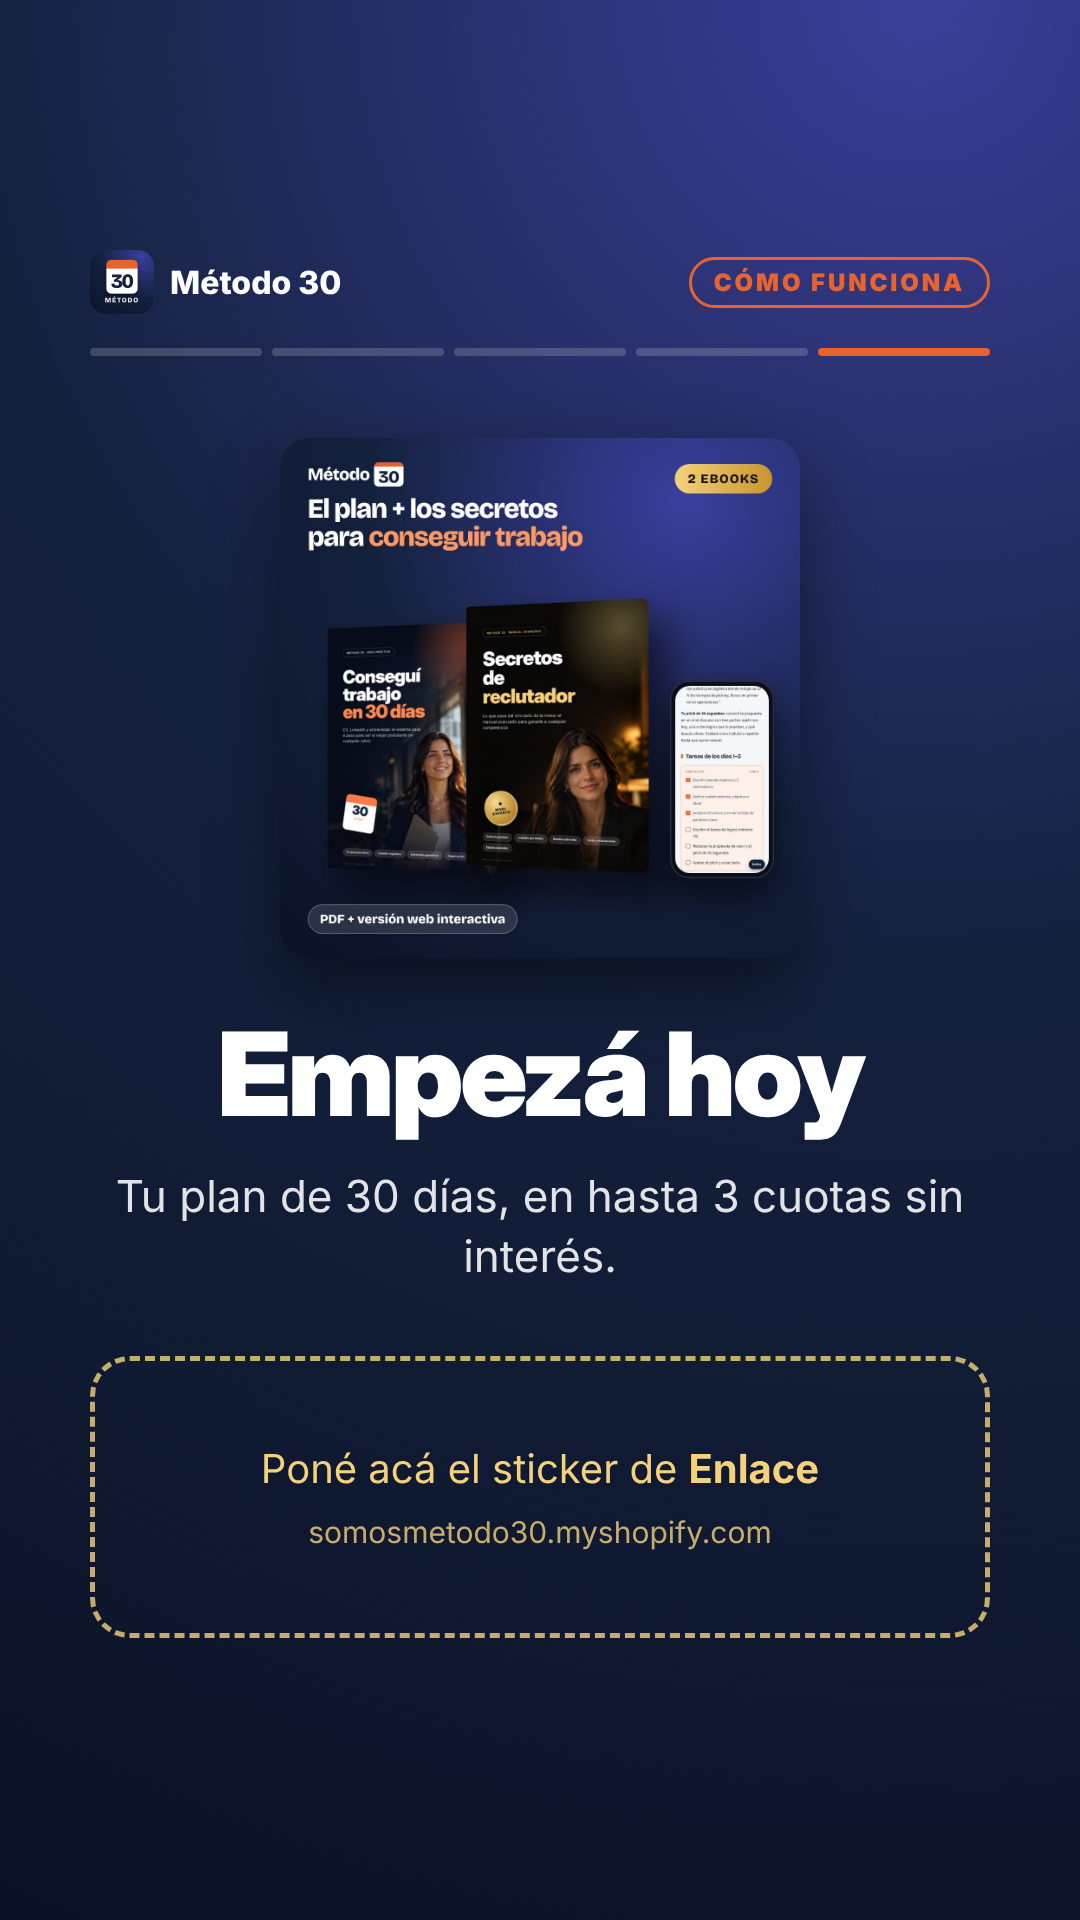
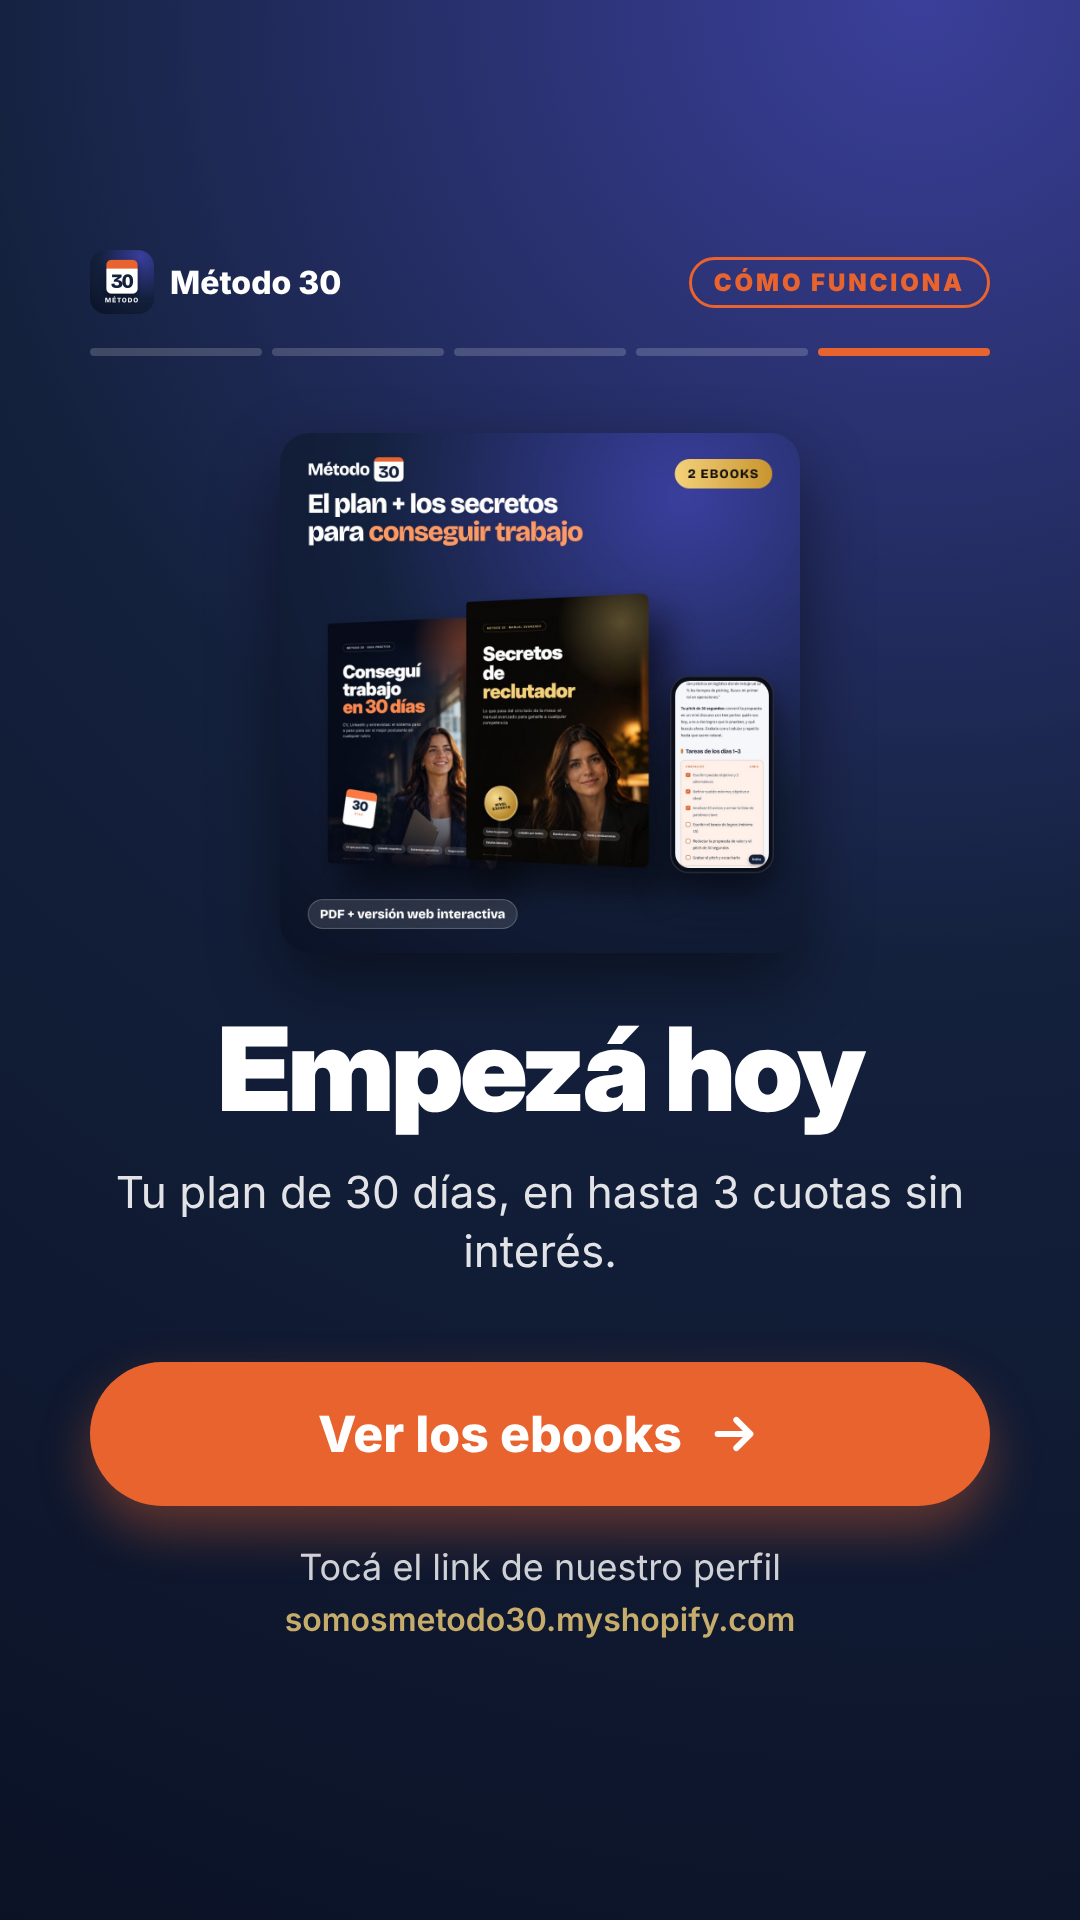
Instagram stories: replace sticker placeholders with finished buttons
Claude-Session: https://claude.ai/code/session_01DqVqUeAmWCQGLWKBngAQ89

diff --git a/instagram/build_historias.py b/instagram/build_historias.py
@@ -52,10 +52,11 @@ add(F, "5", "link", tag="Cómo funciona", title="Empezá hoy",
 F = "2-resenas"
 add(F, "1-pedi-resenas", "ask", tag="Reseñas", title="¿Ya leíste<br><em>Método 30</em>?",
     sub="Contanos cómo te fue con tu búsqueda. Con tu permiso, compartimos tu mensaje acá.",
-    box="Poné acá el sticker de <b>Preguntas</b>")
-add(F, "PLANTILLA-gracias", "thanks", tag="Reseñas", title="¡Gracias, ____!",
-    sub="Escribí el nombre (o la inicial) de quien te mandó el mensaje.",
-    box="Pegá acá la <b>captura real</b> del mensaje<br><small>Tapá foto y número si te lo piden</small>")
+    cta="Mandanos un mensaje", note="o escribinos a somosmetodo30@gmail.com")
+add(F, "2-como-contarnos", "list", tag="Reseñas", title="Contanos<br>tu experiencia",
+    items=["Aplicá el plan en tu búsqueda", "Mandanos un mensaje directo contando cómo te fue",
+           "Si querés, sumá una captura de tu CV o tu LinkedIn nuevo", "Con tu permiso, lo compartimos en esta destacada"],
+    foot="Tu historia puede ayudar a otra persona a animarse.")
 
 # ---------- 3. PAGOS ----------
 F = "3-pagos"
@@ -118,11 +119,20 @@ QA = [
 for i, (q, a) in enumerate(QA, 1):
     add(F, str(i), "qa", tag="Preguntas", q=q, a=a)
 add(F, str(len(QA) + 1), "ask", tag="Preguntas", title="¿Tenés otra<br>pregunta?",
-    sub="Dejala acá y te respondemos en una historia.",
-    box="Poné acá el sticker de <b>Preguntas</b>")
+    sub="Mandanos un mensaje y te respondemos en una historia.",
+    cta="Mandanos un mensaje", note="o escribinos a somosmetodo30@gmail.com")
 
 
 # ---------- RENDER ----------
+ARROW = '<svg viewBox="0 0 24 24"><path d="M5 12h14M13 6l6 6-6 6" fill="none" stroke="currentColor" stroke-width="2.6" stroke-linecap="round" stroke-linejoin="round"/></svg>'
+PLANE = '<svg viewBox="0 0 24 24"><path d="M21 3 10 14M21 3l-7 18-4-7-7-4 18-7Z" fill="none" stroke="currentColor" stroke-width="2.2" stroke-linejoin="round"/></svg>'
+
+
+def cta(label, note, small, icon=ARROW):
+    sm = f"<small>{small}</small>" if small else ""
+    return f'<div class="cta"><div class="btn"><span>{label}</span>{icon}</div><p>{note}{sm}</p></div>'
+
+
 def head(h, i, total):
     dots = "".join(f'<i class="{"on" if k == i else ""}"></i>' for k in range(total))
     return (f'<div class="top"><img src="{ICON}"><span>Método 30</span><b>{h["tag"]}</b></div>'
@@ -137,11 +147,11 @@ def body(h):
         return (f'<div class="step"><div class="num">{h["n"]}</div><h2>{h["title"]}</h2>'
                 f'<p>{h["text"]}</p><div class="pic">{h["pic"]}</div></div>')
     if k == "link":
-        return (f'<div class="cover center"><img class="tp" src="{COMBO}"><h1>{h["title"]}</h1><p class="sub">{h["sub"]}</p>'
-                f'<div class="box">Poné acá el sticker de <b>Enlace</b><small>{LINK}</small></div></div>')
-    if k in ("ask", "thanks"):
-        return (f'<div class="cover center"><h1>{h["title"]}</h1><p class="sub">{h["sub"]}</p>'
-                f'<div class="box {"tall" if k == "thanks" else ""}">{h["box"]}</div></div>')
+        return (f'<div class="cover center"><img class="tp" src="{COMBO}"><h1>{h["title"]}</h1><p class="sub">{h["sub"]}</p>' +
+                cta("Ver los ebooks", "Tocá el link de nuestro perfil", LINK) + "</div>")
+    if k == "ask":
+        return (f'<div class="cover center"><img class="av" src="{ICON}"><h1>{h["title"]}</h1><p class="sub">{h["sub"]}</p>'
+                + cta(h["cta"], h["note"], "", icon=PLANE) + "</div>")
     if k == "big":
         return f'<div class="cover center"><div class="bign">{h["big"]}</div><div class="bigsub">{h["bigsub"]}</div><p class="sub">{h["text"]}</p></div>'
     if k == "list":
@@ -165,7 +175,7 @@ def body(h):
     raise ValueError(k)
 
 
-THEME = {"cover": "dark", "link": "dark", "ask": "dark", "thanks": "light", "big": "dark",
+THEME = {"cover": "dark", "link": "dark", "ask": "dark", "big": "dark",
          "step": "light", "list": "light", "prices": "light", "formula": "light", "star": "light", "qa": "dark"}
 
 CSS = """
@@ -210,10 +220,12 @@ h2{font-size:84px;font-weight:900;line-height:1.02;margin-bottom:34px}
 .ui-in{border:3px solid #14213D;border-radius:18px;padding:28px;font-size:38px;color:#94A3B8;margin-bottom:30px}
 .ui-btn{background:#14213D;color:#fff;border-radius:18px;padding:32px;text-align:center;font-weight:800;font-size:40px;outline:6px solid rgba(232,99,46,.5);outline-offset:6px}
 .code{display:flex;gap:14px}.code span{flex:1;height:130px;border:3px solid #14213D;border-radius:18px;font:900 70px/120px Inter;text-align:center;color:#E8632E}
-.box{margin-top:70px;width:100%;border:5px dashed rgba(245,210,122,.8);border-radius:40px;padding:80px 40px;font-size:40px;line-height:1.4;color:#F5D27A}
-.box small{display:block;font-size:30px;opacity:.8;margin-top:14px}
-.light .box{border-color:#B8892B;color:#B8892B}
-.box.tall{flex:1;display:flex;flex-direction:column;justify-content:center}
+.cta{margin-top:80px;width:100%;display:flex;flex-direction:column;align-items:center}
+.btn{display:flex;align-items:center;justify-content:center;gap:24px;width:100%;background:#E8632E;color:#fff;border-radius:999px;padding:44px 50px;font:800 50px/1 Inter;box-shadow:0 24px 50px rgba(232,99,46,.38)}
+.btn svg{width:56px;height:56px;flex:none}
+.cta p{margin-top:36px;font-size:36px;opacity:.8;line-height:1.4}
+.cta small{display:block;font-size:32px;color:#F5D27A;font-weight:600;margin-top:6px;opacity:1}
+.av{width:180px;height:180px;border-radius:44px;margin-bottom:60px;box-shadow:0 0 0 8px rgba(245,210,122,.6),0 30px 60px rgba(0,0,0,.4)}
 .tp{width:520px;border-radius:30px;margin-bottom:60px;box-shadow:0 30px 70px rgba(0,0,0,.45)}
 .bign{font-size:520px;font-weight:900;line-height:.8;color:#F5D27A}
 .bigsub{font:900 110px/1 "Inter Display";margin-top:20px}

diff --git a/instagram/PLAN-INSTAGRAM.md b/instagram/PLAN-INSTAGRAM.md
@@ -52,7 +52,7 @@ Verdea tiene Pedidos, Reseñas, Pagos, Modo de uso y Envíos. Para un ebook no h
 
 | # | Nombre | Portada | Qué historias van adentro |
 | --- | --- | --- | --- |
-| 1 | **Cómo funciona** | `1-como-funciona.png` | 1) "Comprás → te llega el mail con los PDF → entrás a Mis ebooks". 2) Qué trae cada ebook (usá las tapas). 3) Diferencia Ebook vs Combo y precios. 4) Sticker de link a la tienda. |
+| 1 | **Cómo funciona** | `1-como-funciona.png` | 1) "Comprás → te llega el mail con los PDF → entrás a Mis ebooks". 2) Qué trae cada ebook (usá las tapas). 3) Diferencia Ebook vs Combo y precios. 4) "Empezá hoy" con el botón "Ver los ebooks". |
 | 2 | **Reseñas** | `2-resenas.png` | Solo capturas reales de mensajes o mails de lectores (con permiso y tapando nombre si lo piden). Si todavía no hay, no la publiques. |
 | 3 | **Pagos** | `3-pagos.png` | 1) "Todas las tarjetas, hasta 3 cuotas sin interés con Mercado Pago". 2) "Pago seguro por el checkout de Shopify". 3) "Si no te llega el mail, revisá spam o escribinos". |
 | 4 | **Mis ebooks** | `4-mis-ebooks.png` | Grabación de pantalla del celu: Iniciar sesión → mismo mail de la compra → código de 6 dígitos → checklists y botones de copiar. Es la que más dudas saca. |
@@ -63,14 +63,16 @@ Verdea tiene Pedidos, Reseñas, Pagos, Modo de uso y Envíos. Para un ebook no h
 
 Mismo formato que las de Verdea: vertical 1080x1920, con 250 px libres arriba y abajo para el nombre y la barra de respuesta. Subilas en orden (el número del archivo) y destacalas en su carpeta.
 
-| Destacada | Archivos | Qué tenés que agregar al subirla |
+| Destacada | Archivos | Qué tienen |
 | --- | --- | --- |
-| Cómo funciona | `1-como-funciona/1` a `5` | En la 5, el sticker **Enlace** con el link del producto sobre el recuadro punteado |
-| Reseñas | `2-resenas/1-pedi-resenas` | El sticker **Preguntas** sobre el recuadro. `PLANTILLA-gracias` es para cuando llegue un mensaje real: pegás la captura encima del recuadro y escribís el nombre. **No la subas vacía** y no crees la destacada hasta tener 3 reseñas reales |
-| Pagos | `3-pagos/1` a `3` | Opcional: en la 3, el sticker **Enlace** |
-| Mis ebooks | `4-mis-ebooks/1` a `5` | Nada. Si querés, sumá una grabación de pantalla real del celu entrando con el código |
-| Tips | `5-tips/1-cv` a `4-debilidad` | Una encuesta o un "¿te sirvió?" con el sticker **Reacción** |
-| Preguntas | `6-preguntas/1` a `8` | En la 8, el sticker **Preguntas**. Cada pregunta nueva que llegue, respondela en una historia y sumala acá |
+| Cómo funciona | `1-como-funciona/1` a `5` | La 5 cierra con el botón "Ver los ebooks" y el link de la tienda |
+| Reseñas | `2-resenas/1` y `2` | Cómo mandarnos un mensaje para contar su experiencia. Cuando lleguen mensajes reales, compartilos en esta destacada (con permiso). No la crees hasta tener 3 reseñas reales |
+| Pagos | `3-pagos/1` a `3` | Cuotas, medios de pago y precios |
+| Mis ebooks | `4-mis-ebooks/1` a `5` | Los 3 pasos para entrar. Si querés, sumá una grabación de pantalla real del celu |
+| Tips | `5-tips/1-cv` a `4-debilidad` | Un tip por historia |
+| Preguntas | `6-preguntas/1` a `8` | La 8 invita a mandar un mensaje. Cada pregunta nueva que llegue, respondela en una historia y sumala acá |
+
+Están terminadas: se suben tal cual, sin stickers ni nada que agregar.
 
 Para cambiar un texto o un precio: editá `build_historias.py` y corré `python3 instagram/build_historias.py && node instagram/render_historias.js`.
 
